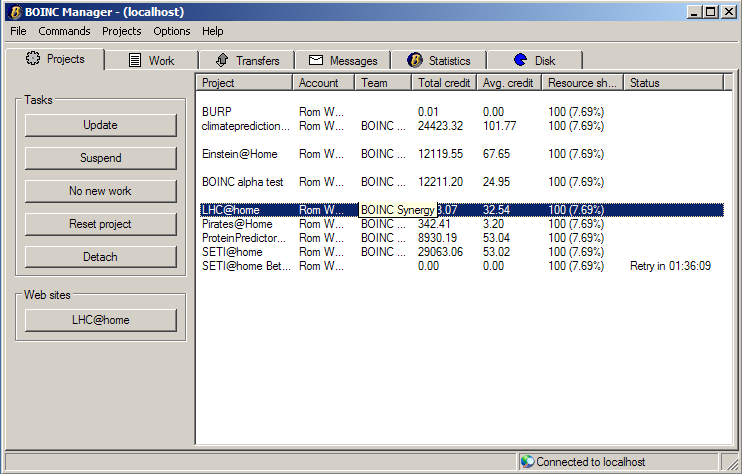
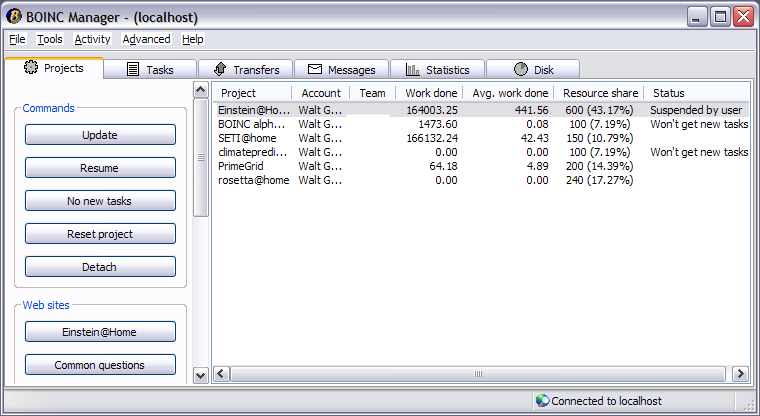
dir_hier_path
svn path=/trunk/boinc/; revision=9794

diff --git a/manager.php b/manager.php
@@ -6,10 +6,10 @@ echo "
 The <b>BOINC manager</b> program is available for Windows, Mac OS X
 and Linux.  It controls the use of your computer's disk, network, and
 processor resources, and is normally started at boot time.
+<br>
 <br>On Windows, the BOINC Manager is represented by an icon in the system tray.
 <br>On Mac OS X, it is represented by icons in both the menubar and the Dock.
 <!-- ** ROM ** is there an equivalent on Linux to the system tray icon? -->
-
 
 <p>
 On Windows:
@@ -29,25 +29,14 @@ On Mac OS X:
 The icon menu choices are:
 <ul>
 <li> <b>Open BOINC Manager</b>: opens the current BOINC Manager.
-<li> <b>Run always</b>: do work, regardless of preferences.
-<li> <b>Run based on preferences</b>: do work
-    when your <a href=prefs.php>preferences</a> allow it.
-<li> <b>Suspend</b>: stop work (computation and file transfer).
-<li> <b>Network activity always available</b>: always allow BOINC to
-contact the project servers when it needs to.
-<li> <b>Network activity based on preferences</b>: allow BOINC to contact
-the project servers only when your <a href=prefs.php>preferences</a>
-allow it.
-<li> <b>Network activity suspended</b>: setting this keeps BOINC
-from attempting to contact any of the project servers.  It is useful
-for those on dial-up connections who do not want to be bothered with
-BOINC prompting to connect or disconnect for a time.
+<li> <b>Snooze</b>: stop work (computation and file transfer).
 <li> <b>About BOINC Manager</b>:  displays useful information about the
 BOINC Manager.
 <li> <b>Exit</b>:  exit the BOINC manager and all running BOINC applications.
 No further work will take place until you run the BOINC manager again.
 <br>(On Mac OS X, this menu item is called <b>Quit</b>.)
 </ul>
+<br>
 <img src=mgrsystrayballoon.png>
 <p>
 Hovering over the BOINC icon will display a status balloon which contains
@@ -57,19 +46,23 @@ computer it is connected to (Windows only).
 <h2>Projects</h2>
 <p>Shows the projects in which this computer is participating.
 <img src=mgrprojects.png>
+<p>
 
+<h3>Status messages</h3>
 <ul>
 <li>Suspended by user:
     The project is currently suspended.
 <li>Retry in ...:
     The client will wait the specified amount of time before attempting
     to contact the project server again.
-<li>Won't get new work:
+<li>Won't get new tasks:
     The project will not fill the cache for this project
-    when it runs out of work.
+    when it runs out of tasks.
 </ul>
 
+<h3>Commands</h3>
 <p>Click on a project name to enable the following additional buttons:
+
 <ul>
 <li> <b>Allow new work</b>:
     Allow the project to download additional work, if needed.
@@ -82,7 +75,7 @@ computer it is connected to (Windows only).
     and start from scratch.
     Use this if BOINC has become stuck for some reason.
 <li> <b>Resume</b>:
-    Resumes processing of a previous suspended project.
+    Resumes processing of a previously suspended project.
 <li> <b>Suspend</b>:
     Suspends any further processing of this project.
 <li> <b>Update</b>:
@@ -91,15 +84,16 @@ computer it is connected to (Windows only).
     get more work if necessary,
     and get your latest <a href=prefs.php>preferences</a>.
 </ul>
+<h3>Web sites</h3>
 
 <p>Project administrators can add <a href=gui_urls.php>buttons</a>
    to the manager to quickly navigate the project website.
 
-<h2>Work</h2>
-<p>Shows the work units currently on your computer.
+<h2>Tasks</h2>
+<p>Shows the tasks currently on your computer.
 <img src=mgrwork.png>
 
-<p>Each work unit is either:
+<p>Each task is either:
     <ul>
 <li>Aborted by user:
     Result has been aborted.
@@ -115,9 +109,18 @@ computer it is connected to (Windows only).
 <li>Running:
     Elapsed CPU time and estimated percent done is shown.
 <li>Suspended by user:
-    Result has been suspended.
+    Result has been suspended by the user.  Use the 'Resume' button on 
+    this tab to resume the result.
 <li>Uploading:
     Output files are being uploaded.
+<li>Activities Suspended:
+    BOINC is suspended, either thru the Command->Suspend menu item or 
+    benchmarks are running
+<li>Project suspended by user:
+    Project has been suspended by user.  Use the 'Resume' button on the
+    Projects tab to resume the project.
+</ul>
+
 </ul>
 
 <p>Click on a result name to enable the following additional buttons:
@@ -126,7 +129,8 @@ computer it is connected to (Windows only).
     Abort processing for a result. NOTE: This will prevent you from receiving
     credit for any work already completed.
 <li> <b>Resume</b>:
-    Resumes processing of a previous suspended result.
+    Resumes processing of a previously suspended result.  
+    Note, this applies to tasks with status 'Suspended by user'.
 <li> <b>Show graphics</b>:
     Open a window showing application graphics.
 <li> <b>Suspend</b>:
@@ -165,6 +169,7 @@ computer it is connected to (Windows only).
     Messages can be sorted by project or time.
     You can <a href=client_msgs.php>control what messages are shown</a>.
     Messages are also written to a file 'stdoutdae.txt'.
+<br>
 <img src=mgrmessages.png>
 
 <p>Click on one or more messages to enable the following additional buttons:
@@ -205,15 +210,26 @@ The BOINC manager has the following menus:
 <ul>
 <li> <b>File</b>
     <ul>
-    <li><b>Select Computer</b>: Allows you to control BOINC on a different
-        computer
-<!--  ** ROM ** is this correct?  Please add more details as appropriate -->
     <li> <b>Exit</b>:  exit the BOINC manager and all running BOINC applications.
         No further work will take place until you run the BOINC manager again.
         <br>(On Mac OS X, this is under the BOINC menu as <b>Quit BOINC</b>.)
     </ul>
 
-<li> <b>Commands</b>
+<br>
+<li> <b>Tools</b>
+    <ul>
+    <li> <b>Attach to project</b>:
+        enroll this computer in a project.
+        You must have already created an account with the project.
+        You will be asked to enter the project's URL and either your account key
+        or your email address and password, depending on the project.
+<!-- ** ROM ** Please add a link to a page with details on using the Wizard. -->
+    <li> <b>Account Manager</b>: attach to one or more new projects using an
+        account manager web site.  See <a href=/acct_mgrs.php>Account managers</a>
+    </ul>
+
+<br>
+<li> <b>Activity</b>
     <ul>
     <li> <b>Run always</b>: do work, regardless of preferences.
     <li> <b>Run based on preferences</b>: do work
@@ -228,27 +244,15 @@ The BOINC manager has the following menus:
         from attempting to contact any of the project servers.  It is useful
         for those on dial-up connections who do not want to be bothered with
         BOINC prompting to connect or disconnect for a time.
-    <li><b>Retry Communications</b>: retry any deferred communications.
-    <li><b>Run Benchmarks</b>:
-        run benchmark functions, which measure the speed of your processor.
-        BOINC does this automatically,
-        but you can repeat it whenever you want.
-        The results are shown in the Messages tab.
-    </ul>
- 
-<li> <b>Projects</b>
-    <ul>
-    <li> <b>Attach to new project</b>:
-        enroll this computer in a project.
-        You must have already created an account with the project.
-        You will be asked to enter the project's URL and either your account key
-        or your email address and password, depending on the project.
-<!-- ** ROM ** Please add a link to a page with details on using the Wizard. -->
-    <li> <b>Account Manager</b>: attach to one or more new projects using an
-        account manager web site.  See <a href=/acct_mgrs.php>Account managers</a>
+        <br><br>Note: Selecting an option that requires contacting a project will
+        temporarily enable network activity regardless of this setting.  It
+        includes updating a project, retrying file transfers, retrying 
+        communications and attaching to projects.  The network will remain
+        enabled for five  minutes.
     </ul>
 
-<li> <b>Options</b>
+<br>
+<li> <b>Advanced</b>
     <ul>
     <li> <b>Options</b>: opens a dialog allowing you to select your preferred
         language, how often you wish to be reminded of the need to connect to
@@ -258,7 +262,19 @@ The BOINC manager has the following menus:
         <br>Windows only: use this dialog to tell BOINC your method of connecting
         to the Internet.
 <!--  ** ROM ** Please add a link to a page with details on using this dialog. -->
+    <li><b>Select Computer</b>: Allows you to control BOINC on a different
+        computer
+<!--  ** ROM ** is this correct?  Please add more details as appropriate -->
+
+    <li><b>Run Benchmarks</b>:
+        run benchmark functions, which measure the speed of your processor.
+        BOINC does this automatically,
+        but you can repeat it whenever you want.
+        The results are shown in the Messages tab.
+    <li><b>Retry Communications</b>: retry any deferred communications.
     </ul>
+
+<br>
 <li> <b>Help</b>
     <ul>
     <li> <b>BOINC Manager</b>: open a web page with instructions for using the

diff --git a/win_install.php b/win_install.php
@@ -17,11 +17,10 @@ BOINC is listed in the Start menu of the installing user,
 but not other users.
 <p>
 The 'Show graphics' command in the BOINC manager
-will work only for the installing user.
-The BOINC screensaver will only show application
+works only for the installing user.
+The BOINC screensaver only shows application
 graphics only for the installing user
-(other users can run the screensaver but will see
-textual information only).
+(other users can run the screensaver but will see textual information only).
 
 <h2>Shared installation</h2>
 <p>
@@ -32,14 +31,10 @@ BOINC is listed in the Start menu of all users.
 <p>
 While BOINC is running, it runs as a particular user
 (either the first user to log in, or the first to run BOINC).
-The 'Show graphics' command in the BOINC manager,
-will work only for this user.
-The BOINC screensaver will only show application
-graphics only for this user
-(other users can run the screensaver but will see
-textual information only).
-
-
+The 'Show graphics' command in the BOINC manager
+works only for this user.
+The BOINC screensaver shows application graphics only for this user
+(other users can run the screensaver but will see textual information only).
 
 <h2>Service installation</h2>
 <p>
@@ -54,22 +49,24 @@ The BOINC screensaver will only show textual information.
 
 <h2>Customizing the installer</h2>
 <p>
-The new BOINC installer is an MSI package.
+The BOINC installer is an MSI package.
 
 <h3>Active Directory Deployment</h3>
 
 Suppose you want to modify it so that you can
 deploy BOINC across a Windows network using Active Directory,
-and have all the PCs attached to a particular account.
-Here is how to do this:
+and have all the PCs attached to a particular set of accounts.
+Here's how to do this:
 
 
 <ul>
 <li> Download the BOINC client package and execute it with the /a parameter.
-<li> Drop the files to a share that can be accessed by all the computers on the network.
+<li> Move the files to a directory that can be accessed
+by all the computers on the network.
 <li> Using <a href=http://support.microsoft.com/kb/255905/EN-US/>Microsoft ORCA</a>,
 or some other MSI packaging tool, create an MSI Transform that contains the 
-account_*.xml files of the projects you have already attached too on another machine
+account_*.xml files of the projects you have already attached to
+on another machine
 plus the following parameters:
     <ul>
     <li>Single-user install:<br>

diff --git a/hier_dir.php b/hier_dir.php
@@ -41,21 +41,17 @@ the right directory before calling <a href=tools_work.php>create_work()</a>.
 To do this, it can use the function
 ".html_text("
 int dir_hier_path(
-    const char* filename, const char* root, int fanout, bool newhash, char* result, bool make_directory_if_needed
+    const char* filename, const char* root, int fanout, char* result,
+    bool make_directory_if_needed=false
 );
 ")."
 This takes a name of the input file
 and the absolute path of the root of the download hierarchy
 (typically the download_dir element from config.xml)
 and returns the absolute path of the file in the hierarchy.
-For new projects, newhash should be set to true.  This argument may eventually
-disappear: it was added to work around a poor initial choice of hashing
-function for determining fanout directory names.  Generally make_directory_if_needed should also be set to true: this creates a fanout directory if needed
+Generally make_directory_if_needed should be set to true:
+this creates a fanout directory if needed
 to accomodate a particular file.
-
-Note: you may see this function occuring at times with the final argument
-missing.  In this case C++ defaults to setting make_directory_if_needed==false.
-[DAVID: PLEASE CONFIRM!]
 
 <p>
 Secondly, your validator and assimilator should call

diff --git a/tools_work.php b/tools_work.php
@@ -137,15 +137,15 @@ dir_hier_path(
     const char* filename,
     const char* root,       // root of download directory
     int fanout,             // from config.xml
-    bool new_hash,          // use true here
-    char* result            // path of file in hierarchy
+    char* result,           // path of file in hierarchy
+    bool create_dir=false   // create dir if it's not there
 );
 </pre>
 If you're using scripts, you can invoke the program
 <pre>
 dir_hier_path filename
 </pre>
-It prints the full pathname.
+It prints the full pathname and creates the directory if needed.
 Run this in the project's root directory.
 For example:
 <pre>

diff --git a/prefs_impl.php b/prefs_impl.php
@@ -113,11 +113,11 @@ Project preferences are represented by an XML element of the form:
         </project_specific>
     </venue>
 </project_preferences>
-")."`
+")."
 
 On the client, the project prefs are stored
 in a file account_XXX.xml,
-which has the additional elements <lt;master_url> and <lt;authenticator>.
+which has the additional elements <lt;master_url&gt; and <lt;authenticator&gt;.
 <p>
 A scheduler RPC reply always includes project prefs.
 <p>

diff --git a/code_signing.php b/code_signing.php
@@ -31,7 +31,7 @@ the code-signing machine.
 A USB-connected disk or CD-RW will work,
 or if your files are small you can use a floppy disk.
 <li>
-Install <a href=key_setup>crypt_prog</a> on the code signing machine
+Install <a href=key_setup.php>crypt_prog</a> on the code signing machine
 (it's easiest if the machine runs Unix/Linux;
 Windows can be used but requires Visual Studio 2003).
 

diff --git a/compile.php b/compile.php
@@ -24,6 +24,8 @@ echo "
 <ul>
 <li> <a href=test.php>Test applications and scripts</a>
 <li> <a href=ssl_build.txt>Build instructions for SSL (Secure Socket Layer) client</a>
+<li> <a href=private_label.txt>Graphics files needed for
+a 'private-label' BOINC client</a>.
 </ul>
 ";
 page_tail();
